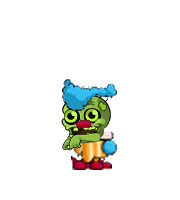
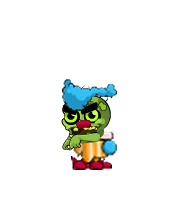
Invasions: the Zombozo is the Circus's rare zombie at 1%; it wears the Mini's face
The Circus joins the rare-zombie ladder on the 1% floor (rec 12 sits between Summer
Break and the Lawyers) as a single prize, 4x on a Brain Ticket like the seasonals.
Ten raids pay a rare zombie now; only the Video Games do not.

A special's manifest may now name the ordinary skeleton it is laid over (`base`), and
the runtime, the portrait baker and the Rig Studio all honour it. The Zombozo names
ZombieActorSmallTier1, so it inherits the Mini's face — the Regular face plus its
eyebrow feature — instead of the Regular's, which every other named special still uses.

Changed region(s): [[0.3333, 0.51, 0.5556, 0.6]]

diff --git a/src/raid/zombieDrops.test.ts b/src/raid/zombieDrops.test.ts
@@ -31,6 +31,8 @@ import {
   OMEGA_ZOMBIE_BOT_KEY,
   ZASTRONAUT_KEY,
   ZOSMONAUT_KEY,
+  ZOMBOZO_KEY,
+  CIRCUS_RAID_ID,
   ELITE_PRIZE_RATE_CAP,
   isRareInvasionZombieName,
 } from "./zombieDrops";
@@ -59,7 +61,7 @@ describe("rare raid zombie drops", () => {
 
   it("never drops from a loss, an unrelated invasion, or an invalid roll", () => {
     expect(rollRaidZombieDrop(7, false, 0)).toBeNull();
-    expect(rollRaidZombieDrop(8, true, 0)).toBeNull(); // the Circus has no rare zombie
+    expect(rollRaidZombieDrop(9, true, 0)).toBeNull(); // the Video Games have no rare zombie
     expect(rollRaidZombieDrop(10, true, -0.1)).toBeNull();
     expect(rollRaidZombieDrop(11, true, Number.NaN)).toBeNull();
   });
@@ -85,8 +87,8 @@ describe("Golden Dice raise the rare-zombie rate", () => {
 
   it("still pays nothing on a loss or for a raid with no rare zombie", () => {
     expect(rollRaidZombieDrop(1, false, 0.0, 10)).toBeNull();
-    expect(rollRaidZombieDrop(8, true, 0.0, 10)).toBeNull();
-    expect(raidZombieDropRate(8, 10)).toBe(0);
+    expect(rollRaidZombieDrop(9, true, 0.0, 10)).toBeNull();
+    expect(raidZombieDropRate(9, 10)).toBe(0);
   });
 
   it("clamps a garbage or oversized dice count instead of guaranteeing the drop", () => {
@@ -102,10 +104,10 @@ describe("Golden Dice raise the rare-zombie rate", () => {
 describe("rare zombie pity floor", () => {
   const MISS = 1; // a roll above every drop rate
 
-  it("only the nine raids with a rare zombie have a streak that means anything", () => {
-    expect([1, 2, 3, 4, 5, 6, 7, 10, 11].every(hasRaidZombieDrop)).toBe(true);
-    // The Circus and Video Games pay no rare zombie.
-    expect([8, 9].some(hasRaidZombieDrop)).toBe(false);
+  it("only the ten raids with a rare zombie have a streak that means anything", () => {
+    expect([1, 2, 3, 4, 5, 6, 7, 8, 10, 11].every(hasRaidZombieDrop)).toBe(true);
+    // The Video Games pay no rare zombie.
+    expect(hasRaidZombieDrop(9)).toBe(false);
   });
 
   it("withholds the zombie until the raid's dry wins reach the threshold", () => {
@@ -122,7 +124,7 @@ describe("rare zombie pity floor", () => {
   });
 
   it("never conjures a zombie for a raid that has none, or for a loss", () => {
-    expect(rollRaidZombieDropWithPity(8, true, MISS, 10_000)).toBeNull();
+    expect(rollRaidZombieDropWithPity(9, true, MISS, 10_000)).toBeNull();
     expect(rollRaidZombieDropWithPity(1, false, MISS, RAID_ZOMBIE_PITY_WINS)).toBeNull();
   });
 
@@ -187,8 +189,8 @@ describe("a Brain Ticket widens the rare-zombie roll too", () => {
   });
 
   it("still pays nothing on a raid with no rare zombie", () => {
-    expect(raidZombieDropRate(8, 5, ELITE_BRAIN_LUCK)).toBe(0);
-    expect(rollRaidZombieDrop(8, true, 0, 5, ELITE_BRAIN_LUCK)).toBeNull();
+    expect(raidZombieDropRate(9, 5, ELITE_BRAIN_LUCK)).toBe(0);
+    expect(rollRaidZombieDrop(9, true, 0, 5, ELITE_BRAIN_LUCK)).toBeNull();
   });
 
   it("cannot exceed certainty", () => {
@@ -207,8 +209,8 @@ describe("the story invasions' prize pairs", () => {
   ];
 
   it("pins the ladder: a fifth of a percent per story invasion to 2% on the Aliens, promoted prizes 3-4.5%", () => {
-    const ladder: Record<number, number> = { 2: 0.012, 3: 0.014, 4: 0.016, 5: 0.018, 6: 0.02 };
-    expect(Object.keys(STORY_ZOMBIE_DROP_RATES).map(Number).sort()).toEqual([2, 3, 4, 5, 6]);
+    const ladder: Record<number, number> = { 8: 0.01, 2: 0.012, 3: 0.014, 4: 0.016, 5: 0.018, 6: 0.02 };
+    expect(Object.keys(STORY_ZOMBIE_DROP_RATES).map(Number).sort()).toEqual([2, 3, 4, 5, 6, 8]);
     for (const [id, rate] of Object.entries(ladder)) {
       expect(STORY_ZOMBIE_DROP_RATES[Number(id)], `raid ${id}`).toBeCloseTo(rate, 12);
     }
@@ -249,7 +251,7 @@ describe("the story invasions' prize pairs", () => {
   it("asking for the elite prize of a single-prize raid is the ordinary prize at elite luck", () => {
     expect(raidZombieDropFor(1, true)?.key).toBe(OLD_MC_ZOMBIE_KEY);
     expect(raidZombieDropRate(1, 0, ELITE_BRAIN_LUCK, true)).toBeCloseTo(0.04, 10);
-    expect(raidZombieDropFor(8, true)).toBeNull();
+    expect(raidZombieDropFor(9, true)).toBeNull();
   });
 
   it("gives the Aliens the Zastronaut ordinarily and the Zosmonaut on a ticket, at the cap", () => {
@@ -262,6 +264,16 @@ describe("the story invasions' prize pairs", () => {
     expect(rollRaidZombieDrop(6, true, 0.044, 0, ELITE_BRAIN_LUCK, true)?.key).toBe(ZOSMONAUT_KEY);
     expect(rollRaidZombieDrop(6, true, 0.046, 0, ELITE_BRAIN_LUCK, true)).toBeNull();
     expect(rollRaidZombieDrop(6, true, 0, 5, ELITE_BRAIN_LUCK, true)?.key).not.toBe(ZASTRONAUT_KEY);
+  });
+
+  it("gives the Circus the Zombozo as a single prize on the 1% floor, 4x on a ticket", () => {
+    expect(RAID_ZOMBIE_DROPS[CIRCUS_RAID_ID].key).toBe(ZOMBOZO_KEY);
+    expect(RAID_ELITE_ZOMBIE_DROPS[CIRCUS_RAID_ID]).toBeUndefined();
+    expect(raidZombieDropRate(CIRCUS_RAID_ID)).toBeCloseTo(0.01, 10);
+    expect(raidZombieDropRate(CIRCUS_RAID_ID, 0, ELITE_BRAIN_LUCK, true)).toBeCloseTo(0.04, 10);
+    expect(rollRaidZombieDrop(CIRCUS_RAID_ID, true, 0.009)?.key).toBe(ZOMBOZO_KEY);
+    expect(rollRaidZombieDrop(CIRCUS_RAID_ID, true, 0.01)).toBeNull();
+    expect(raidZombieDryKey(CIRCUS_RAID_ID, true)).toBe("8");
   });
 
   it("keeps a separate pity streak for each prize of a paired raid, and one for the rest", () => {
@@ -283,7 +295,8 @@ describe("the story invasions' prize pairs", () => {
     expect(byKey.get(ZASTRONAUT_KEY)).toMatchObject({ raidId: 6, elite: false });
     expect(byKey.get(ZOSMONAUT_KEY)).toMatchObject({ raidId: 6, elite: true });
     expect(byKey.get(OLD_MC_ZOMBIE_KEY)).toMatchObject({ raidId: 1, elite: false });
-    expect(byKey.size).toBe(14);
+    expect(byKey.get(ZOMBOZO_KEY)).toMatchObject({ raidId: CIRCUS_RAID_ID, elite: false });
+    expect(byKey.size).toBe(15);
     // Every source key is a distinct zombie: no prize is reachable from two places.
     expect(new Set(RAID_ZOMBIE_SOURCES.map((s) => s.drop.key)).size).toBe(RAID_ZOMBIE_SOURCES.length);
   });
@@ -293,6 +306,7 @@ describe("the story invasions' prize pairs", () => {
     expect(isRareInvasionZombieName("Deputy Zombie")).toBe(true);
     expect(isRareInvasionZombieName("Zastronaut")).toBe(true);
     expect(isRareInvasionZombieName("Zosmonaut")).toBe(true);
+    expect(isRareInvasionZombieName("Zombozo")).toBe(true);
     expect(isRareInvasionZombieName("Bombie")).toBe(false);
   });
 });

diff --git a/src/raid/zombieDrops.ts b/src/raid/zombieDrops.ts
@@ -20,6 +20,7 @@ export const OLD_MC_ZOMBIE_RAID_ID = 1;
 //   rec  6  Valentine's Day   Teddy Zombie      1.0%
 //   rec  8  Tree World        Forest Zombie     1.0%
 //   rec 10  Summer Break      Diver Zombie      1.0%
+//   rec 12  Circus            Zombozo           1.0%   (single prize: x4 on a ticket)
 //   rec 16  Lawyers           Deputy Zombie     1.2%   (Sheriff 3.0% on a ticket)
 //   rec 21  Pirates           MerZombie         1.4%   (Poseidon 3.5%)
 //   rec 26  Ninjas            Ninjombie         1.6%   (Master Ninjombie 4.0%)
@@ -29,9 +30,10 @@ export const OLD_MC_ZOMBIE_RAID_ID = 1;
 // The promoted prizes run 3-4.5%: ELITE_PRIZE_RATE_MULTIPLIER x their raid's rung, held
 // under ELITE_PRIZE_RATE_CAP — which is only ever the Aliens' 5% brought back to 4.5%.
 //
-// The four easy invasions share the floor on purpose — three of them are seasonal and
-// unlock at level 6-10, and Old McDonnell's is the tutorial raid; none is harder than
-// another in a way a rate should reward. zombieDrops.test.ts pins the ladder to the
+// The five easy invasions share the floor on purpose — three of them are seasonal and
+// unlock at level 6-10, Old McDonnell's is the tutorial raid, and the Circus (rec 12) is
+// the first story invasion after it; none is harder than another in a way a rate should
+// reward. The climb starts at the Lawyers. zombieDrops.test.ts pins the ladder to the
 // recommended-level order so a re-tune cannot quietly invert it.
 const pct = (percent: number): number => percent / 100;
 export const OLD_MC_ZOMBIE_DROP_RATE = pct(1);
@@ -61,6 +63,7 @@ export const PIRATES_RAID_ID = 3;
 export const NINJAS_RAID_ID = 4;
 export const ROBOTS_RAID_ID = 5;
 export const ALIENS_RAID_ID = 6;
+export const CIRCUS_RAID_ID = 8;
 
 export const DEPUTY_ZOMBIE_KEY = "ZombieActorDeputy";
 export const SHERIFF_ZOMBIE_KEY = "ZombieActorSheriff";
@@ -74,9 +77,13 @@ export const ZASTRONAUT_KEY = "ZombieActorZastronaut";
 /** The Zastronaut in a rust suit and charcoal helmet — a derived recolour
  *  (tools/prep_assets.py DERIVED_SPECIAL_ZOMBIES), the Aliens' promoted prize. */
 export const ZOSMONAUT_KEY = "ZombieActorZosmonaut";
+/** A Mini zombie in the Circus clown's costume, cut from the enemy art
+ *  (tools/prep_assets.py CUT_SPECIAL_ZOMBIES) — the Circus's rare zombie. */
+export const ZOMBOZO_KEY = "ZombieActorZombozo";
 
 /** Each story invasion's ordinary-prize rate: its rung of the ladder above. */
 export const STORY_ZOMBIE_DROP_RATES: Readonly<Record<number, number>> = {
+  [CIRCUS_RAID_ID]: pct(1.0),
   [LAWYERS_RAID_ID]: pct(1.2),
   [PIRATES_RAID_ID]: pct(1.4),
   [NINJAS_RAID_ID]: pct(1.6),
@@ -106,6 +113,7 @@ export const RAID_ZOMBIE_DROPS: Readonly<Record<number, RaidZombieDrop>> = {
   [NINJAS_RAID_ID]: { key: NINJOMBIE_KEY, name: "Ninjombie", rate: STORY_ZOMBIE_DROP_RATES[NINJAS_RAID_ID] },
   [ROBOTS_RAID_ID]: { key: ZOMBIE_BOT_KEY, name: "Zombie Bot", rate: STORY_ZOMBIE_DROP_RATES[ROBOTS_RAID_ID] },
   [ALIENS_RAID_ID]: { key: ZASTRONAUT_KEY, name: "Zastronaut", rate: STORY_ZOMBIE_DROP_RATES[ALIENS_RAID_ID] },
+  [CIRCUS_RAID_ID]: { key: ZOMBOZO_KEY, name: "Zombozo", rate: STORY_ZOMBIE_DROP_RATES[CIRCUS_RAID_ID] },
   [SPRING_BREAK_RAID_ID]: {
     key: DIVER_ZOMBIE_KEY,
     name: DIVER_ZOMBIE_NAME,

diff --git a/src/assets.ts b/src/assets.ts
@@ -157,6 +157,11 @@ interface SpecialZombieManifest {
   /** A COMPLETE actor rather than a delta: nothing of the ordinary skeleton is
    *  inherited. The Video Game Zombie's single flipbook sprite is the whole body. */
   complete?: boolean;
+  /** The ordinary skeleton this delta is laid over. Absent = the Regular Tier-1 rig
+   *  (Bombie: the Headless one). A Small-family actor names ZombieActorSmallTier1 so
+   *  it inherits the MINI's face — the Regular face plus its eyebrow feature — rather
+   *  than the Regular's. */
+  base?: string;
   parts: Array<Omit<ZombieModelPart, "tint"> & { file: string }>;
   /** Frame files (same folder as `parts`) for a rig animated by texture swaps. */
   flipbook?: ZombieFlipbook;
@@ -990,8 +995,10 @@ export async function loadAssets(): Promise<GameAssets> {
       });
     }
     // Bombie is authored as a floating head, but its plantable incarnation uses
-    // the ordinary headless-zombie body beneath its dedicated bomb attachments.
-    const base = z.key === "ZombieActorBombie" ? headless : plain;
+    // the ordinary headless-zombie body beneath its dedicated bomb attachments. A
+    // manifest may name its own skeleton (the Zombozo is a Mini, eyebrow and all).
+    const base = (manifest.base && zombieModels[manifest.base])
+      || (z.key === "ZombieActorBombie" ? headless : plain);
     const assembledManifest = z.key === "ZombieActorBombie"
       ? { ...manifest, floatingHead: false }
       : manifest;

diff --git a/src/zombie/specialRoster.test.ts b/src/zombie/specialRoster.test.ts
@@ -41,6 +41,9 @@ describe("complete special-zombie roster", () => {
         expect(part.group).toBe("head");
       }
     }
+    // The Zombozo is a Mini: it names the Small skeleton so it wears the Mini's face.
+    expect((specialModels as Record<string, { base?: string }>).ZombieActorZombozo.base)
+      .toBe("ZombieActorSmallTier1");
   });
 
   it("exposes exactly the five permanent plantable specials", () => {

diff --git a/tools/prep_assets.py b/tools/prep_assets.py
@@ -1107,7 +1107,7 @@ def composite_from_manifest(stem, catalog_key):
     models = json.load(open(os.path.join(OUT, "zombie", "models.json")))
     frames = json.load(open(os.path.join(OUT, "zombie", "frames.json")))
     base_sheet = Image.open(os.path.join(OUT, "zombie", "ZombieSheet.png")).convert("RGBA")
-    base = models["ZombieActorRegularTier1"]
+    base = models[manifest.get("base", "ZombieActorRegularTier1")]
     replaced = {p["file"].removesuffix(".png") for p in manifest["parts"]}
     complete_face = catalog_key in COMPLETE_SPECIAL_FACE_KEYS
     masked_face = catalog_key in MASKED_FACE_KEYS
@@ -1207,6 +1207,9 @@ CUT_SPECIAL_ZOMBIES = [
     # pom-pom, red shoes. Proposed as the Circus invasion's rare zombie, 2026-09-07.
     {
         "stem": "zombozo", "key": "ZombieActorZombozo",
+        # A Mini: laid over the Small skeleton so it inherits the Mini's face (the
+        # Regular face plus its eyebrow feature), not the Regular's.
+        "base": "ZombieActorSmallTier1",
         "source": os.path.join("raids", "enemies", "parts", "CircusStageActorMinion2.png"),
         "cell": (202, 2, 47, 51),
         "classify": _clown_class,
@@ -1282,6 +1285,7 @@ def cut_special_zombies():
             "neck": inherited_head_offset_pixi(),
             "color": spec["color"],
             "floatingHead": False,
+            **({"base": spec["base"]} if spec.get("base") else {}),
             "parts": parts,
         }
         json.dump(manifest, open(os.path.join(dst, "manifest.json"), "w"), indent=1)

diff --git a/tools/build_rig_studio.py b/tools/build_rig_studio.py
@@ -184,7 +184,7 @@ def build_zombie() -> dict:
         row = zombies.get(key)
         if not row:
             continue
-        base = models["ZombieActorHeadlessTier1" if key == "ZombieActorBombie" else "ZombieActorRegularTier1"]
+        base = models[manifest.get("base") or ("ZombieActorHeadlessTier1" if key == "ZombieActorBombie" else "ZombieActorRegularTier1")]
         replaced = {slot(p["file"]) for p in manifest["parts"]}
         complete_face = key in pa.COMPLETE_SPECIAL_FACE_KEYS
         masked = key in pa.MASKED_FACE_KEYS

diff --git a/docs/FEATURES.md b/docs/FEATURES.md
@@ -73,7 +73,7 @@ stops resolving, the bullet is stale.
 - Zombies that die in an invasion are culled from the roster + save, unless revived from the one-time post-battle **revival offer** (one brain per casualty, restored from a server-owned snapshot online); casualties not revived are permanently lost.
 - Each invasion fights **one** stage, never a sequence of waves, and its enemies emerge one at a time by design — and, since raid ruleset 48, in a different order every fight: a weighted wave fields its exact authored multiset in a seeded shuffle drawn by the fight's own session seed (`resolveStageWave`), the boss still last, so the deterministic replay agrees with what the player watched. Authored waves (Old McDonnell's tutorial rungs) and the Robots' own boss draw are unchanged; friend invasions and the Epic Boss never resolve a stage wave. Old McDonnell's Farm ships a 7-stage difficulty ladder that steps one stage harder per player level past its recommended level (`fightStage`); the other ten raids ship a single authored wave, fought the same at every level, rather than an extrapolated ladder.
 - Old McDonnell's boss throw cadence is eased over a new player's first two clears (2× the authored interval before the first win, 1.5× after it, authored cadence from the third). The pinned server config carries `priorWins` so the replay agrees.
-- Rare raid zombies use an independent roll, separate from the ordinary weighted loot roll, on one ladder read off the invasion's recommended level: the four easy invasions pay **1%** (Old McDonnell's → Old McZombie; Summer Break / Tree World / Valentine's Day → Diver / Forest / Teddy), and the story invasions climb a fifth of a percent each to 2% on the Aliens — Lawyers **1.2%** Deputy Zombie, Pirates **1.4%** MerZombie, Ninjas **1.6%** Ninjombie, Robots **1.8%** Zombie Bot, Aliens **2.0%** Zastronaut (these were the source's never-built Epic prizes). A **Brain Ticket (elite) win of a faction invasion rolls for the promoted zombie in its place** — Sheriff / Poseidon / Master Ninjombie / Omega Zombie Bot at **2.5x** its raid's rate (3.0 / 3.5 / 4.0 / 4.5%), that being the whole elite premium (no 4x on top). The Aliens' ticket prize is the **Zosmonaut** — the Zastronaut in a rust suit and charcoal helmet, a derived recolour with no source art (`DERIVED_SPECIAL_ZOMBIES` in `tools/prep_assets.py`) — at **4.5%**, the multiplier's 5% held to the band's top (`ELITE_PRIZE_RATE_CAP`). Old McZombie and the three seasonal zombies stay single prizes, so a ticket takes them to 4%. Online the roll is server-owned, and the unit is filed in Received when the active army is full.
+- Rare raid zombies use an independent roll, separate from the ordinary weighted loot roll, on one ladder read off the invasion's recommended level: the four easy invasions pay **1%** (Old McDonnell's → Old McZombie; Summer Break / Tree World / Valentine's Day → Diver / Forest / Teddy), the Circus pays the **Zombozo** (a Mini zombie in the little clown's costume, cut from the enemy art) at the same **1%**, and the story invasions climb a fifth of a percent each to 2% on the Aliens — Lawyers **1.2%** Deputy Zombie, Pirates **1.4%** MerZombie, Ninjas **1.6%** Ninjombie, Robots **1.8%** Zombie Bot, Aliens **2.0%** Zastronaut (these were the source's never-built Epic prizes). A **Brain Ticket (elite) win of a faction invasion rolls for the promoted zombie in its place** — Sheriff / Poseidon / Master Ninjombie / Omega Zombie Bot at **2.5x** its raid's rate (3.0 / 3.5 / 4.0 / 4.5%), that being the whole elite premium (no 4x on top). The Aliens' ticket prize is the **Zosmonaut** — the Zastronaut in a rust suit and charcoal helmet, a derived recolour with no source art (`DERIVED_SPECIAL_ZOMBIES` in `tools/prep_assets.py`) — at **4.5%**, the multiplier's 5% held to the band's top (`ELITE_PRIZE_RATE_CAP`). Old McZombie and the three seasonal zombies stay single prizes, so a ticket takes them to 4%. Online the roll is server-owned, and the unit is filed in Received when the active army is full.
 - Side-view enemy actor art for all 11 raids. Ten use bone rigs from `public/assets/raids/enemies/models.json` (32 rigs); Video Games' five actors play real per-frame idle/attack animations. Eleven named enemy attacks (Circus, Lawyers, Pirate, Ninja, Robot) play **authored timelines recovered from `ZFAttackAnims`**, rotated so the source contact frame lands on the simulated hit; unmapped enemies fall back to a procedural lunge. Ninja/Pirate/City rigs are decoded from the iOS binary (their atlases have no TexturePacker plist — see `docs/mechanics/RAID_TIMING_AND_HAZARDS.md`). Raid particle FX (impact dust, victory confetti, heal).
 - Zombies fight with two recovered basic attacks — bite (anim 8) and scratch (anim 9) — alternating per swing from a per-unit seed so the horde is staggered, each with its own strike SFX. Zombies also narrow their eyes while their deployment bar fills.
 - Raid audio: per-stage battle BGM (farm/pirate/ninja/robot/alien themes, with `fightBGM` covering the other six raids) plus attack-keyed strike SFX (bite/poke/swipe/flail/punch) in both raids and Epic Boss fights.

diff --git a/docs/SPECIAL_ZOMBIE_ACQUISITION.md b/docs/SPECIAL_ZOMBIE_ACQUISITION.md
@@ -1,7 +1,6 @@
 # Special zombie acquisition
 
-The runtime catalog contains 58 zombies in the Special category. Every one but the
-Zombozo (a proposed Circus invasion prize whose drop is not wired yet) has a
+The runtime catalog contains 58 zombies in the Special category. Every one has a
 reachable acquisition route; Epic-event rewards and voucher gifts are deliberately
 excluded from the plantable zombie Market.
 
@@ -113,15 +112,15 @@ Zastronaut, Zosmonaut, Zombozo, Deputy, Master Ninjombie, MerZombie, Ninjombie, 
 Bot, Poseidon, Sheriff, and Zombie Bot. Another player escrows the zombie as a `SELL_ZOMBIE` order, or fills
 a `BUY_ZOMBIE` request.
 
-**Fourteen of those 30 also drop from invasions** and are therefore reachable solo: Old McZombie
+**Fifteen of those 30 also drop from invasions** and are therefore reachable solo: Old McZombie
 (Old McDonnell's), Diver (Summer Break), Forest (Tree World) and Teddy (Valentine's Day) at 1%
 each; Deputy / MerZombie / Ninjombie / Zombie Bot from an ordinary win of the Lawyers / Pirates /
 Ninjas / Robots (1.2 / 1.4 / 1.6 / 1.8%), with Sheriff / Poseidon / Master Ninjombie / Omega
 Zombie Bot paid *instead* on an elite (Brain Ticket) win of the same raid (2.5x: 3.0 / 3.5 /
 4.0 / 4.5%); and Zastronaut from the Aliens (2%), with the Zosmonaut — a derived rust-suit
-recolour of it — paid *instead* on an elite win (4.5%). The Zombozo — a Mini zombie cut from the
-Circus clown's enemy art (`CUT_SPECIAL_ZOMBIES` in `tools/prep_assets.py`) — is proposed as the
-Circus's rare zombie but has no drop wired yet, so it is not in the Almanac. See `src/raid/zombieDrops.ts` and the rare-zombie section of
+recolour of it — paid *instead* on an elite win (4.5%); and the Zombozo — a Mini zombie cut from
+the Circus clown's enemy art (`CUT_SPECIAL_ZOMBIES` in `tools/prep_assets.py`) — from the Circus
+(1%, a single prize like the seasonals). See `src/raid/zombieDrops.ts` and the rare-zombie section of
 `docs/mechanics/RAID_TIMING_AND_HAZARDS.md`. A hidden per-prize pity makes that route bounded:
 100 wins of a raid without its zombie guarantees it on the next. Nothing in the game says so.
 

diff --git a/docs/mechanics/RAID_TIMING_AND_HAZARDS.md b/docs/mechanics/RAID_TIMING_AND_HAZARDS.md
@@ -173,11 +173,11 @@ The floor is **deliberately invisible**: the counter is never sent to the client
 in the UI names it, counts it out, or marks a floored drop differently from a rolled one. Keep
 it that way when touching the result panel or the fight's brain pickup.
 
-**Rare zombies are a separate roll, with the same treatment.** Nine raids independently roll a
+**Rare zombies are a separate roll, with the same treatment.** Ten raids independently roll a
 special zombie on a win (`src/raid/zombieDrops.ts`), on ONE rate ladder read off the raid's
 recommended level — 1% on the easy invasions, a fifth of a percent more per story invasion to
-2% on the Aliens: Old McDonnell's → Old McZombie and Summer Break / Tree World / Valentine's Day →
-Diver / Forest / Teddy at **1%**; Lawyers → Deputy **1.2%**, Pirates → MerZombie **1.4%**, Ninjas →
+2% on the Aliens: Old McDonnell's → Old McZombie, Summer Break / Tree World / Valentine's Day →
+Diver / Forest / Teddy, and the Circus → Zombozo (a Mini in the clown's costume) at **1%**; Lawyers → Deputy **1.2%**, Pirates → MerZombie **1.4%**, Ninjas →
 Ninjombie **1.6%**, Robots → Zombie Bot **1.8%**, Aliens → Zastronaut **2.0%**. The four faction
 invasions pay a **pair**: an ELITE (Brain Ticket) win rolls for the promoted zombie *instead* —
 Sheriff / Poseidon / Master Ninjombie / Omega Zombie Bot at **2.5x** the raid's ordinary rate
